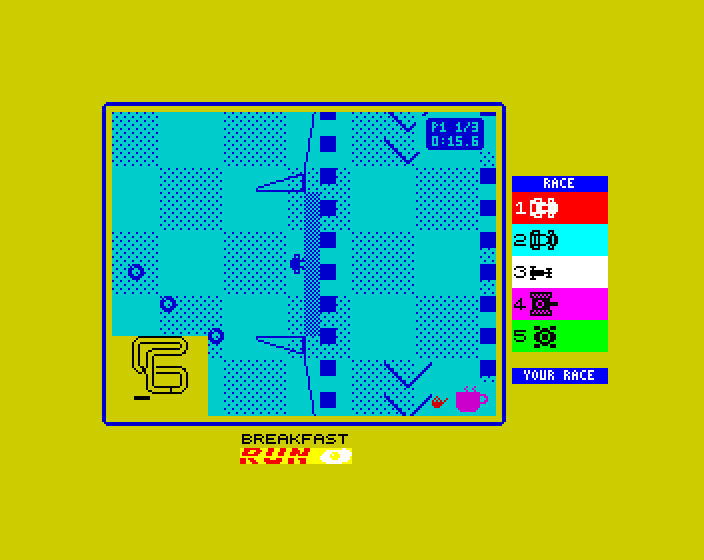
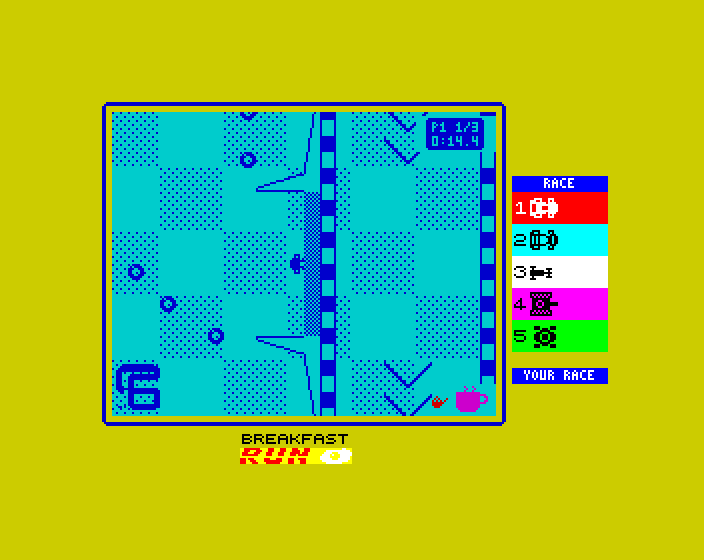
Track 5: the bridge as Grant drew it - solid kerb walls (kerb_draw), concrete masked, legs joined to the walls, six O's; pictures, efficiency options sheet, tests, log
Claude-Session: https://claude.ai/code/session_01476U86GiAC8cKs57wAJvc3

diff --git a/tools/make_bridge_efficiency.py b/tools/make_bridge_efficiency.py
@@ -1,0 +1,75 @@
+"""OPTIONS ONLY (nothing here is in the game): small changes to how track 5's bridge is drawn that would make it
+cheaper, each shown 4x as it is now and as it would be - docs/design/tracks/bridge_efficiency_options.png.
+Grant, 16 Nov 2026: "if there is a subtle way to improve the efficiency in drawing it - with small changes - I'm
+open to options". The figures on the sheet say which are measured and which are estimates.
+Run: python3 tools/make_bridge_efficiency.py"""
+import os, runpy, tempfile, contextlib, io
+import numpy as np
+from PIL import Image, ImageDraw, ImageFont
+HERE = os.path.dirname(os.path.abspath(__file__))
+os.environ['TRACK'] = '5'; os.environ['WORLD_OUT'] = tempfile.mkdtemp()
+with contextlib.redirect_stdout(io.StringIO()):
+    w = runpy.run_path(os.path.join(HERE, 'make_world.py'))
+B, ROAD, cloth = w['BRIDGE'], w['ROAD'], w['cloth_on']
+xc, yc = B['cross']; x0, x1 = xc - ROAD // 2, xc + ROAD // 2
+(u0, u1), (d0, d1), (r0, r1) = B['ramp_up'], B['deck'], B['ramp_down']; m0, m1 = yc - ROAD // 2, yc + ROAD // 2
+def now():
+    ink = np.array(w['img'], dtype=bool).copy(); wipe = np.array(w['imask'], dtype=bool).copy()
+    for (x, y), v in w['KERB'].items(): ink[y, x] = bool(v); wipe[y, x] = True
+    return ink, wipe
+def e1(ink, wipe):                       # the mouths' dither on every other line
+    for xa in (x0 - 16, x1 + 8): ink[m0 + 1:m1:2, xa:xa + 8] = False
+def e2(ink, wipe):                       # two arrows a ramp
+    for a_ in (u0, r0): ink[a_ + 17:a_ + 32, xc - 12:xc + 12] = False
+def e3(ink, wipe):                       # a tile that holds any concrete has all its dots wiped
+    c = np.zeros_like(wipe)
+    for (x, y) in w['BR_WIPE']: c[y, x] = True
+    for ty in range(u0 // 8, r1 // 8):
+        for tx in range((x0 - 48) // 8, (x1 + 48) // 8):
+            if c[ty * 8:ty * 8 + 8, tx * 8:tx * 8 + 8].any(): wipe[ty * 8:ty * 8 + 8, tx * 8:tx * 8 + 8] = True
+def e4(ink, wipe):                       # the concrete not wiped at all (as the first tape)
+    for (x, y) in w['BR_WIPE']: wipe[y, x] = False
+CYAN, BLUE, YEL, BLACK, RED = (0, 215, 215), (0, 0, 215), (215, 215, 0), (0, 0, 0), (215, 0, 0)
+def render(fn, box, s=4):
+    ink, wipe = now()
+    if fn: fn(ink, wipe)
+    xa, ya, xb, yb = box
+    bit = ink[ya:yb, xa:xb] | (cloth[ya:yb, xa:xb] & ~wipe[ya:yb, xa:xb])
+    return Image.fromarray(np.where(bit[..., None], np.array(BLUE, dtype=np.uint8), np.array(CYAN, dtype=np.uint8))).resize(((xb - xa) * s, (yb - ya) * s), Image.NEAREST)
+font = lambda n: ImageFont.load_default(size=n)
+OPTS = [
+ ('E1  TUNNEL MOUTH: DITHER ON EVERY OTHER LINE', e1, (104, 290, 168, 382), True,
+  ['The band reads a shade lighter.', 'ESTIMATE: 18 tiles with 4 inked lines each instead of 8:', 'about 6,300 T a picture with the mouths in view. No bytes.']),
+ ('E2  TWO ARROWS ON EACH RAMP, NOT THREE', e2, (148, 236, 228, 292), True,
+  ['ESTIMATE: 12 fewer tiles: about 6,000 T a picture with a ramp', 'in view, and 24 bytes. (Measured with two arrows 24 px apart,', 'off the tile grid: 10.3 pictures a second against 10.2.)']),
+ ('E3  WIPE THE DOTS BY WHOLE TILES', e3, (216, 236, 296, 300), True,
+  ['A tile with any concrete in it loses all its dots: a few', 'dots just outside the walls and wings go.', 'ESTIMATE: 17 masks become 2: about 120 bytes. No speed.']),
+ ('E4  THE CONCRETE NOT WIPED (as the first tape)', e4, (208, 248, 288, 296), False,
+  ['The cloth shows through the wings and walls again.', 'MEASURED (an earlier build of today): 10.7 pictures a second', 'against 10.2 - the 18 masked tiles are the dearest thing here.']),
+]
+pad = 24; cw = 92 * 4; W_ = pad + len(OPTS) * (2 * 80 * 4 // 2 + 330 + pad)
+colw = 700
+sheet = Image.new('RGB', (pad + 2 * (colw + pad), 150 + 2 * 520 + 250), YEL); d = ImageDraw.Draw(sheet)
+d.text((pad, 14), 'TRACK 5 BRIDGE - ways to draw it more cheaply (OPTIONS, 4x; left: as it is in the tape now, right: with the change)', fill=BLACK, font=font(26))
+d.text((pad, 52), 'None of these is in the tape: each can be seen, so each waits for your word. Recommended: E1 + E2 + E3 (marked).', fill=BLACK, font=font(20))
+for i, (title, fn, box, rec, lines) in enumerate(OPTS):
+    x = pad + (i % 2) * (colw + pad); y = 100 + (i // 2) * 520
+    a = render(None, box); b = render(fn, box)
+    d.text((x, y), title, fill=BLACK, font=font(22))
+    if rec: d.text((x + d.textlength(title, font=font(22)) + 14, y + 2), '- RECOMMENDED', fill=RED, font=font(20))
+    sheet.paste(a, (x, y + 34)); sheet.paste(b, (x + a.size[0] + 16, y + 34))
+    d.text((x, y + 38 + a.size[1]), 'now', fill=BLACK, font=font(16)); d.text((x + a.size[0] + 16, y + 38 + a.size[1]), 'with the change', fill=BLACK, font=font(16))
+    for j, l in enumerate(lines): d.text((x, y + 62 + a.size[1] + 20 * j), l, fill=BLACK, font=font(17))
+y = 100 + 2 * 520
+for j, l in enumerate([
+    'ALREADY IN THE TAPE - they change nothing you can see (the first three are the same pixels; the fourth moves two cans):',
+    '  A1  The kerb walls are drawn by a routine of their own, two bytes a line, not as 48 map tiles (12 of them masked). MEASURED: 9.8 -> 10.2 pictures a second at the crossing.',
+    '  A2  A mask holds only the cloth dots it has to hide: 22 different masks became 17, and tiles whose dots are all under ink need none.',
+    '  A3  A quicker routine for this track\'s masked tiles. MEASURED: about 7,000 T a picture less with the whole bridge in view (with A1\'s second pass).',
+    '  A4  The NOS can behind the grid and the one on the top lane moved 14 and 24 px onto white squares of the cloth: no masks for them (about 45 bytes).',
+    'WHERE THE TIME GOES (MEASURED, your car parked, no other car in view): 187,500 T a picture on the start straight; 271,400 with the whole bridge in view.',
+    'A picture is shown every 4 TV frames while its work is under about 227,000 T, else every 5: so the whole bridge in view runs at 10 pictures a second whatever is done here,',
+    'and the options matter for the views with part of it (a ramp: 227,600 T now; a mouth: 218,900). Classification: Internal. Made by tools/make_bridge_efficiency.py.']):
+    d.text((pad, y + 24 * j), l, fill=BLACK, font=font(17))
+sheet.save(os.path.join(HERE, '..', 'docs', 'design', 'tracks', 'bridge_efficiency_options.png'))
+print('saved', sheet.size)

diff --git a/tests/track5_shots.py b/tests/track5_shots.py
@@ -26,6 +26,28 @@ sp.run(duration=2.0, fast_forward=True); shot(sp, 'track5_deck.png')
 park_cpus(sp); [setl(sp, n, 0) for n in CPUS]
 place(sp, 0, XC - 8, YC - 8, 48, 0); sp.run(duration=2.0, fast_forward=True); shot(sp, 'track5_under.png')
 place(sp, 0, BR['H0'] - 8, YC - 8, 48, 0); sp.run(duration=2.0, fast_forward=True); shot(sp, 'track5_half_under.png')
+# the view of Grant's own picture (16 Nov 2026: the left-hand tunnel mouth), from the game, 4x, beside his picture
+place(sp, 0, 120, 326, 48, 0); sp.run(duration=3.0, fast_forward=True); at_copy_done(sp)
+print('fix view: camera at', g(sp, 'camx'), g(sp, 'camy'), '(his picture: 32, 258)')
+bits = screen_bits(sp)[WY:WY + WH, 8:8 + WW]
+game = Image.fromarray(np.where(bits[..., None].astype(bool), np.array((0, 0, 215), dtype=np.uint8), np.array((0, 215, 215), dtype=np.uint8))).resize((WW * 4, WH * 4), Image.NEAREST)
+his = os.path.join(ROOT_, 'docs', 'design', 'tracks', 'grant_bridge_picture.png')
+sheet = Image.new('RGB', (WW * 8 + 72, WH * 4 + 90), (215, 215, 0)); sheet.paste(game, (24, 50))
+from PIL import ImageDraw, ImageFont
+dr = ImageDraw.Draw(sheet); f_ = ImageFont.load_default(size=22)
+dr.text((24, 14), 'FROM THE GAME (track 5 tape, 4x; your car is the one in the middle)', fill=(0, 0, 0), font=f_)
+if os.path.exists(his):
+    sheet.paste(Image.open(his).convert('RGB').resize((WW * 4, WH * 4), Image.NEAREST), (48 + WW * 4, 50)); dr.text((48 + WW * 4, 14), 'GRANT\'S PICTURE', fill=(0, 0, 0), font=f_)
+dr.text((24, WH * 4 + 58), 'The same view: the left-hand tunnel mouth. Classification: Internal.', fill=(0, 0, 0), font=ImageFont.load_default(size=16))
+sheet.save(os.path.join(DEST, 'track5_fix_view.png'))
+# the whole bridge, from two pictures of the game (the window is 152 lines, the bridge 192): your car on the deck near each end
+whole = Image.new('RGB', (WW * 4, 244 * 4), (0, 215, 215))
+for yy in (BR['Y0'] + 8, YC - 10, BR['Y3'] - 28):
+    place(sp, 0, XC - 8, yy, 32, 1); sp.run(duration=3.0, fast_forward=True); at_copy_done(sp)
+    b_ = screen_bits(sp)[WY:WY + WH, 8:8 + WW]; cy_ = g(sp, 'camy'); b_ = b_[20:WH - 44] if yy < YC else b_[20:WH - 44]
+    im_ = Image.fromarray(np.where(b_[..., None].astype(bool), np.array((0, 0, 215), dtype=np.uint8), np.array((0, 215, 215), dtype=np.uint8))).resize((WW * 4, b_.shape[0] * 4), Image.NEAREST)
+    whole.paste(im_, (0, (cy_ + 20 - (BR['Y0'] - 40)) * 4))
+whole.save(os.path.join(DEST, 'track5_whole_bridge.png'))
 # the GIF: you from above the ramp up, flat out down the screen; FRANK and JANE along the lower road, under you
 place(sp, 0, XC - 8, BR['Y0'] - 50, 32, 0)
 for n, x in ((1, XC + 150), (4, XC + 215)):

diff --git a/tests/drive_test.py b/tests/drive_test.py
@@ -58,6 +58,13 @@ for ty in range(MAPH):
             for i in range(8):
                 world[ty * 8 + j, tx * 8 + i] = (t[j] >> (7 - i)) & 1
                 wmask[ty * 8 + j, tx * 8 + i] = (m[j] >> (7 - i)) & 1
+_br = {k: int(v) for k, v in re.findall(r'BR_(X0|X1|Y0|Y3)\s+equ\s+(\d+)', src)}
+if _br:                                     # a track with the bridge (track 5): its two kerb walls are not map tiles - the game draws them
+    for _xa in (_br['X0'] - 8, _br['X1']):  # itself (kerb_draw, bridge.asm): 8 x 8 blocks, blue and cyan in turn, the cyan ones a blue line
+        for _y in range(_br['Y0'], _br['Y3']):   # each side with clean paper between
+            if ((_y - _br['Y0']) // 8) % 2 == 0: world[_y, _xa:_xa + 8] = 1
+            else: world[_y, _xa] = world[_y, _xa + 7] = 1
+        wmask[_br['Y0']:_br['Y3'], _xa:_xa + 8] = True
 
 def screen_bits(sp):
     scr = sp.read(0x4000, 6144)

diff --git a/PROJECT-LOG.md b/PROJECT-LOG.md
@@ -2233,3 +2233,13 @@ Authoritative log for this workstream (house rule 5.2). Newest at the bottom. Ti
 - A key pressed during the start or the flag jingle stops it (jb_key, last in the program; tests/skip_test.py: lights at 1.4 s against 6.0 s). Only a key pressed after every key was seen up counts.
 - LATENT FAULT, NOT FOUND: any build with more bytes in the jingle player (plateco.asm), even 23 unused ones, fails drive_test's ramming check - the computer car put in front of you jumps 66 pixels down within one TV frame. So something later in the program depends on where it sits. jb_key was put at the program's end to move nothing. To be hunted down before more code goes into the middle of the program.
 - Bridge fixes after Grant's drive, mock-up only: docs/design/tracks/bridge_fix_mock.png, bridge_fix_overview.png (tools/make_bridge_fix_mock.py): concrete masked, kerbs K1/K2/K3, six more O's. Estimated costs are on the sheet.
+
+## 16 Nov 2026 - track 5: the bridge as Grant drew it (background agent, branch worktree-agent-af9944e9fcce06708)
+- Grant after driving it: the wings must be masked, more boundary circles on the inside, the bridge's sides solid; then his own picture, the wing-to-wall line removed. Built (OPT_BRIDGE only; tracks 1-3 tapes byte-identical).
+- kerb_draw (bridge.asm): the two kerb walls straight into the buffer after the cloth, before the tiles - blue and cyan blocks inside a blue line each side, the cyan clean. As tiles they cost 48 full tiles a bridge, 12 masked (9.8 pictures a second at the crossing); as a routine 10.2.
+- make_world.py (BRIDGE): wing + ramp wall as one outline; BR_WIPE -> masked tiles whose masks hold only the dots to hide; six O's; the kerbs kept as KERB for tests; cans A and B on white squares; row lists also at 0x5B16 (54 bytes, title's unused a_sav) and 0x5E58 (48, stack page).
+- tdraw_mb replaces tdraw_m on this track (sparse masks: a line's mask and picture each done only if not empty).
+- SPEED: 10.2 near the crossing (11.7 before, 12.5 elsewhere). The whole bridge in view is 271,400 T of work a picture against about 227,000 for a 4-frame picture: it cannot make 4 frames with this look. The 10.5 asked for was not reached with everything in; the masks cost about 0.5. Options sheet: docs/design/tracks/bridge_efficiency_options.png (E1 mouth dither on alternate lines, E2 two arrows a ramp, E3 whole-tile wipes, E4 no wipe).
+- MEMORY: program 2 bytes free on track 5. Anything more needs room first (E2 and E3 would give about 145 bytes).
+- LATENT FAULT (drive_test's ramming check failing when bytes are added in plateco's jingle player): looked, not found. Checked on track 1 with 23 bytes added: no call lands off a label (no assembler phase error); only 61 labels move (sfont, flag/clock glyphs, grid_order, car_colours, tdraw_table, isr and its parts, title2's car code, jb_key) and none of their blocks newly crosses a page; cars and tb do not move; the interrupt routine has no address arithmetic outside the music option. Track 5's layout, which differs from track 1's through most of the program, passes its own ramming and bump checks.
+- TESTS: track5_test 65 PASS (full run, 0 of 546 dropped cars stuck). skip_test on track 5 PASS. arrow_test on track 5: 22 PASS, 1 FAIL - 'your dot follows your car round the map': its 8 looks a place, 0.1 s apart, now fall in step with the dot's blink, so the dot is always off at the looks it counts (5 to 7); at looks 0 to 3 the dot is at the right spot at all 13 places and the window matches the map. A coincidence of timing in the test, not looked into further (arrow_test.py was another agent's to change). The 15 suites on track 1 PASS; track2_test QUICK on tracks 2 and 3 PASS. tests/drive_test.py's map now has the kerb walls on a track with a bridge (they are not tiles).

diff --git a/docs/design/tracks/built/BUILT.md b/docs/design/tracks/built/BUILT.md
@@ -155,3 +155,33 @@ The slower pictures near the crossing are the bridge's tiles (about 125 of them,
 elsewhere); hiding a car costs nothing. With no bridge pictures at all the same stretch ran at 15.9.
 
 Not verified: how any of it feels to drive (nobody has played it); real hardware; the stack's worst case.
+
+### 16 Nov 2026 - the bridge as Grant drew it (after his first drive; not playtested again)
+
+Grant: "bridge works well but the diagonals jutting out must be masked, and the area on the inside track needs
+more boundary circles. Also - the outside of the bridge are not solid", then his own picture
+(`docs/design/tracks/grant_bridge_picture.png`) with "notice the line removed in the bridge legs". Built into the
+track 5 tape; tracks 1-3 are byte for byte unchanged. Compare: `track5_fix_view.png` (the game beside his picture),
+`track5_whole_bridge.png`, `track5_cross.gif`.
+
+- **Kerb walls** (his picture; K2 of the mock-up): one wall the whole way - a blue line down both sides, blue and
+  cyan blocks in turn, the cyan ones clean paper. The game draws them itself now (`kerb_draw`, bridge.asm), two
+  bytes a pixel line, before the map's tiles; they are no longer map tiles.
+- **Concrete masked**: the cloth's dots are wiped off inside the wings and the walls along the ramps (18 masked
+  tiles, 17 masks that hold only the dots to hide; `tdraw_mb`). The deck is not wiped.
+- **Legs**: each wing and the wall beside it are one shape - one outline round both, nothing where they join (all
+  four). His picture keeps a stub of 2 or 3 pixels at the outer end of each join; the game has none.
+- **Six more cereal O's** (156): two on the left loop's inner edge beside the ramp up, two at the right-hand wing
+  tips, two at the foot of the ramp down.
+- Two cans moved onto white squares of the cloth (behind the grid: 14 px up the road; top lane: 24 px left).
+
+Measured: tests/track5_test.py 65 PASS (the look: kerbs solid on the screen, concrete clean, the six O's and where
+they stand; and all the earlier checks). **Speed: 10.2 pictures a second near the crossing** (it was 11.7 with the
+first tape's plainer bridge); 12.5 elsewhere. With your car parked and nothing else in view a picture's work is
+187,500 T on the start straight and 271,400 with the whole bridge in view; a picture goes up every 4 TV frames
+only under about 227,000. The masked tiles are the dearest part (without them: 10.7). Options that would win
+some back, none applied because each can be seen: `docs/design/tracks/bridge_efficiency_options.png`.
+
+Memory: program 2 bytes free, TOPMEM 11, start-up area 64. Found for this: the kerbs out of the map (96 bytes of
+row lists), row lists in 54 bytes the title never uses (0x5B16) and 48 at the bottom of the stack's page (0x5E58:
+the stack now has 120 bytes; seen 56 deep), the cans' masks.

diff --git a/CONTINUE.md b/CONTINUE.md
@@ -20,6 +20,8 @@ frames / 225 at 4 / 5 at 5. Speed test 15 Nov 06:07: alone now 91 pictures at 3 
 
 **Track 5, the bridge (15 Nov late night, background agent - not yet playtested):** `TRACK=5 bash build.sh` -> build/racer_track5.tap, a one-track tape: under the bridge, round, up a ramp and over it. Levels, walls, the car hidden under the deck, ramp speeds, all behind OPT_BRIDGE (src/bridge.asm); tracks 1-3 tapes unchanged. Test: `python3 tests/track5_test.py`. Detail, figures and what was simplified: docs/design/tracks/built/BUILT.md (end); pictures docs/design/tracks/built/track5_*.
 
+**Track 5's bridge as Grant drew it (16 Nov, background agent - not playtested):** kerb walls solid (drawn by kerb_draw), concrete masked, wing and wall one shape, six more O's. 10.2 pictures a second at the crossing (was 11.7); program 2 bytes free on track 5. His choice wanted: docs/design/tracks/bridge_efficiency_options.png (E1-E4). Detail: BUILT.md's last section.
+
 **Tracks 2 and 3 (15 Nov evening, background agent - not yet playtested):** one track a build: `TRACK=2 bash build.sh` -> build/racer_track2.tap, `TRACK=3 bash build.sh` -> build/racer_track3.tap; racer.tap is track 1, unchanged. Test: `TRACK=2 python3 tests/track2_test.py`. Detail and figures: docs/design/tracks/built/BUILT.md.
 
 **Crew messages (15 Nov 11:48):** the chief's face and a white bubble at the foot of the play window (msg_say in src/strip.asm writes the lines; fl_draw in src/plateco.asm copies them in; the picture is kept invisibly on the screen under the window). Messages: tools/make_strip.py MSGS. **Main area: 17 bytes free.**
